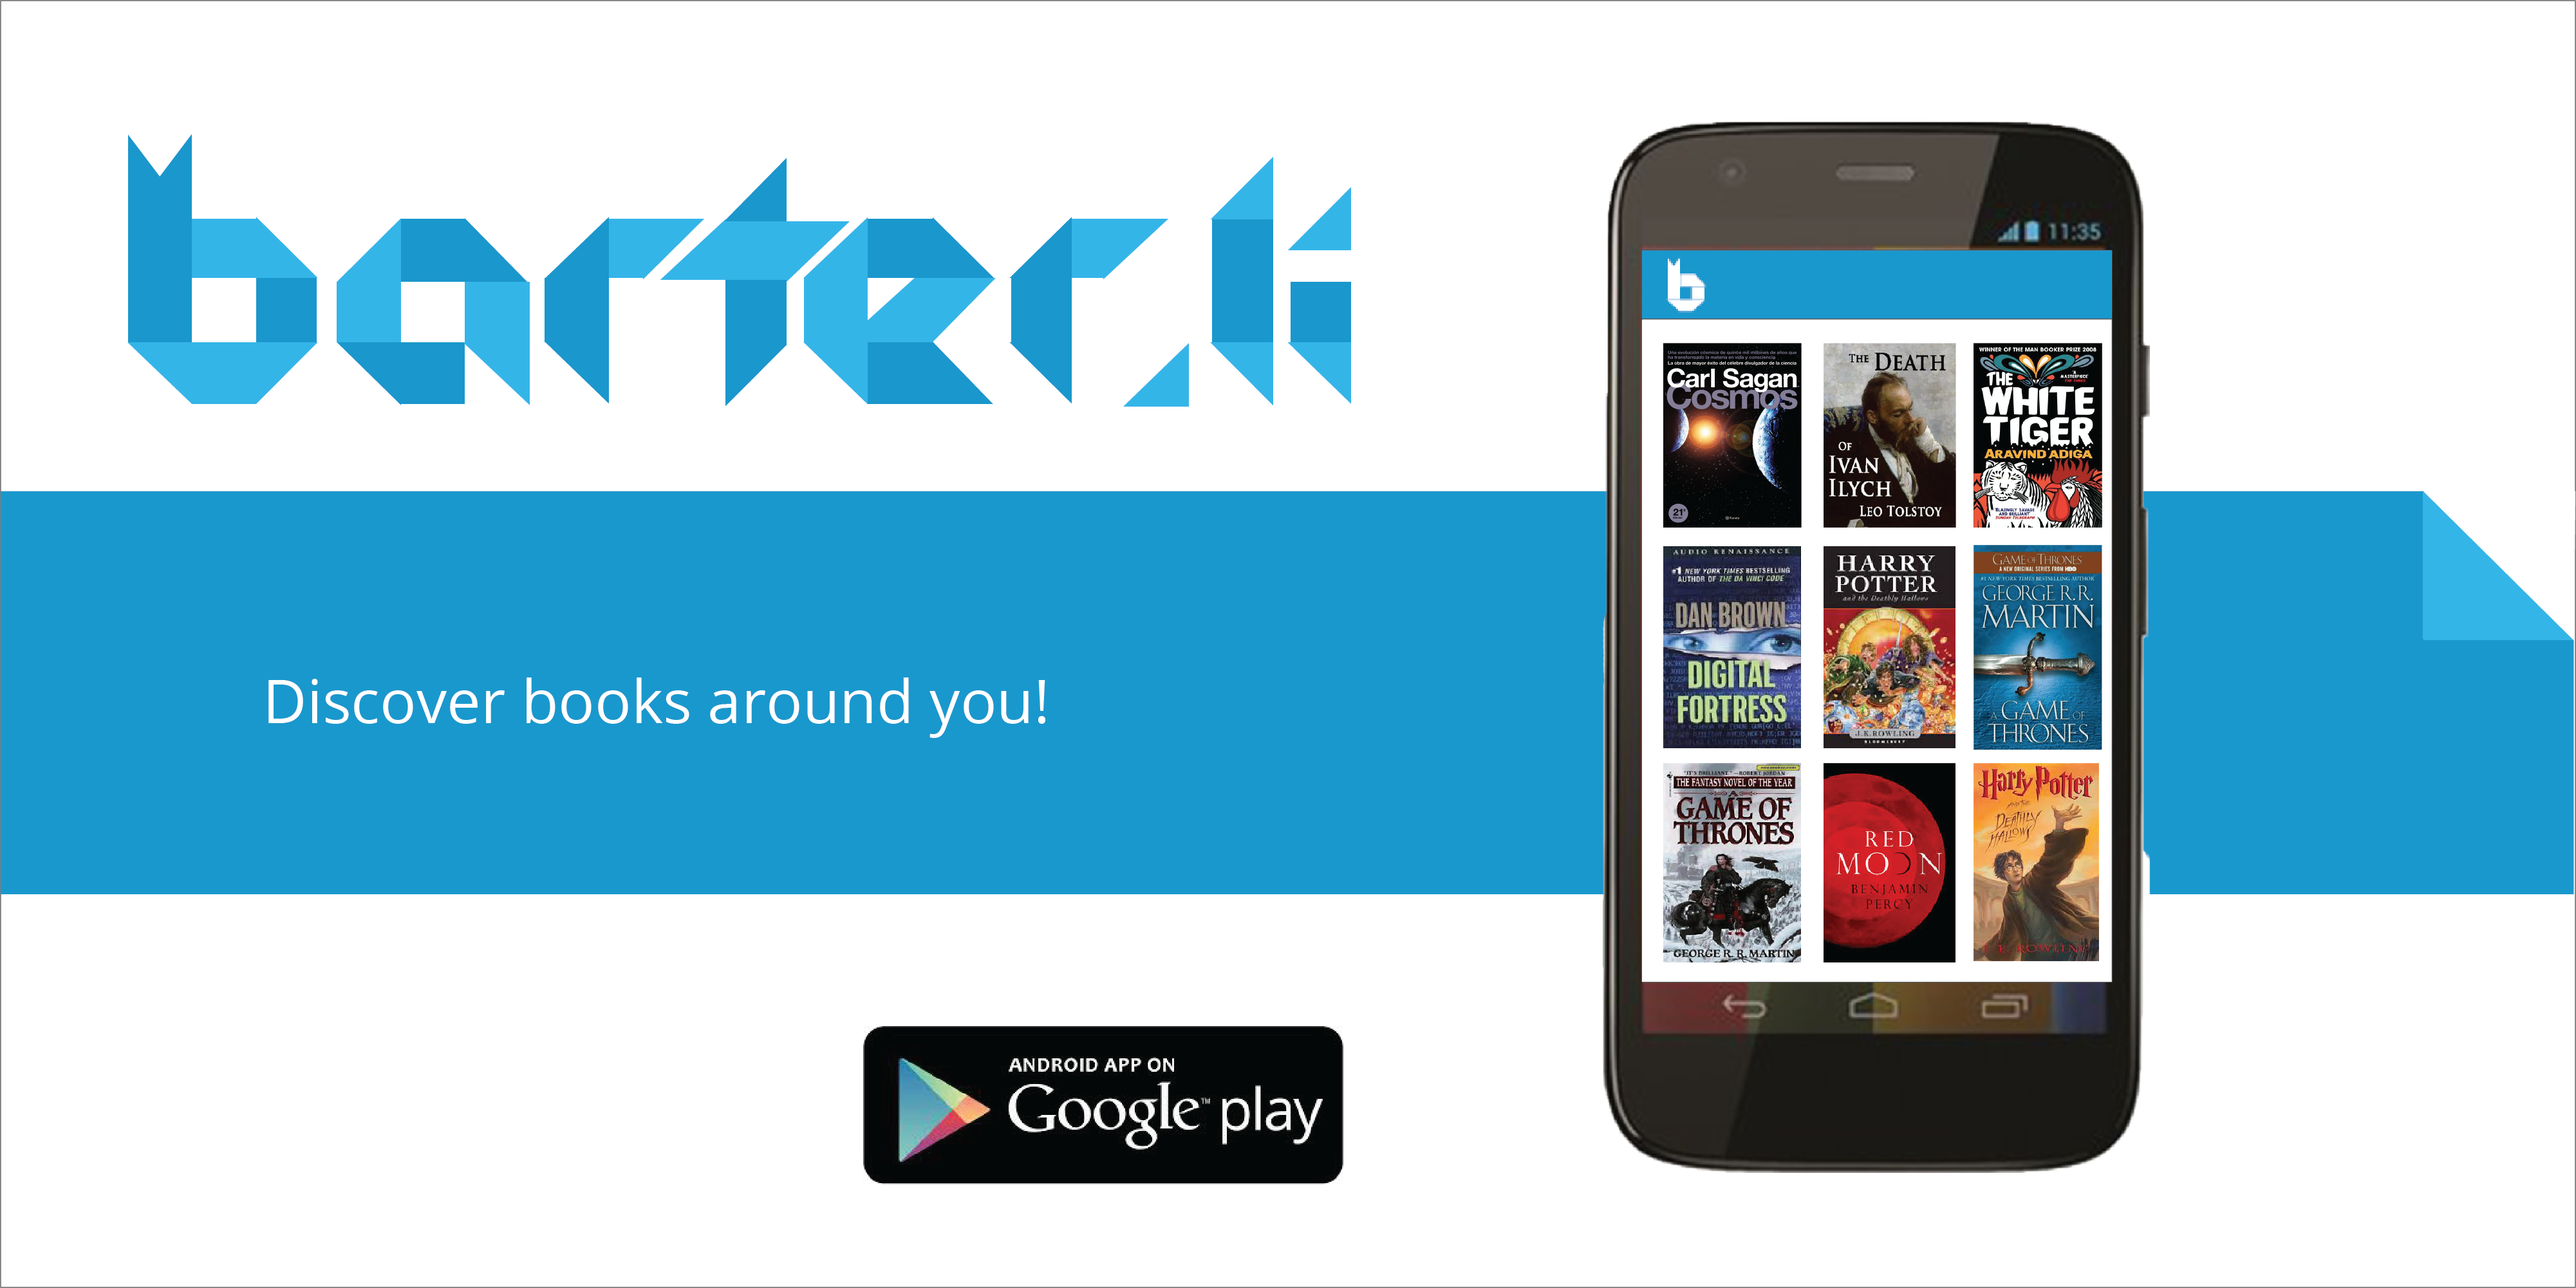
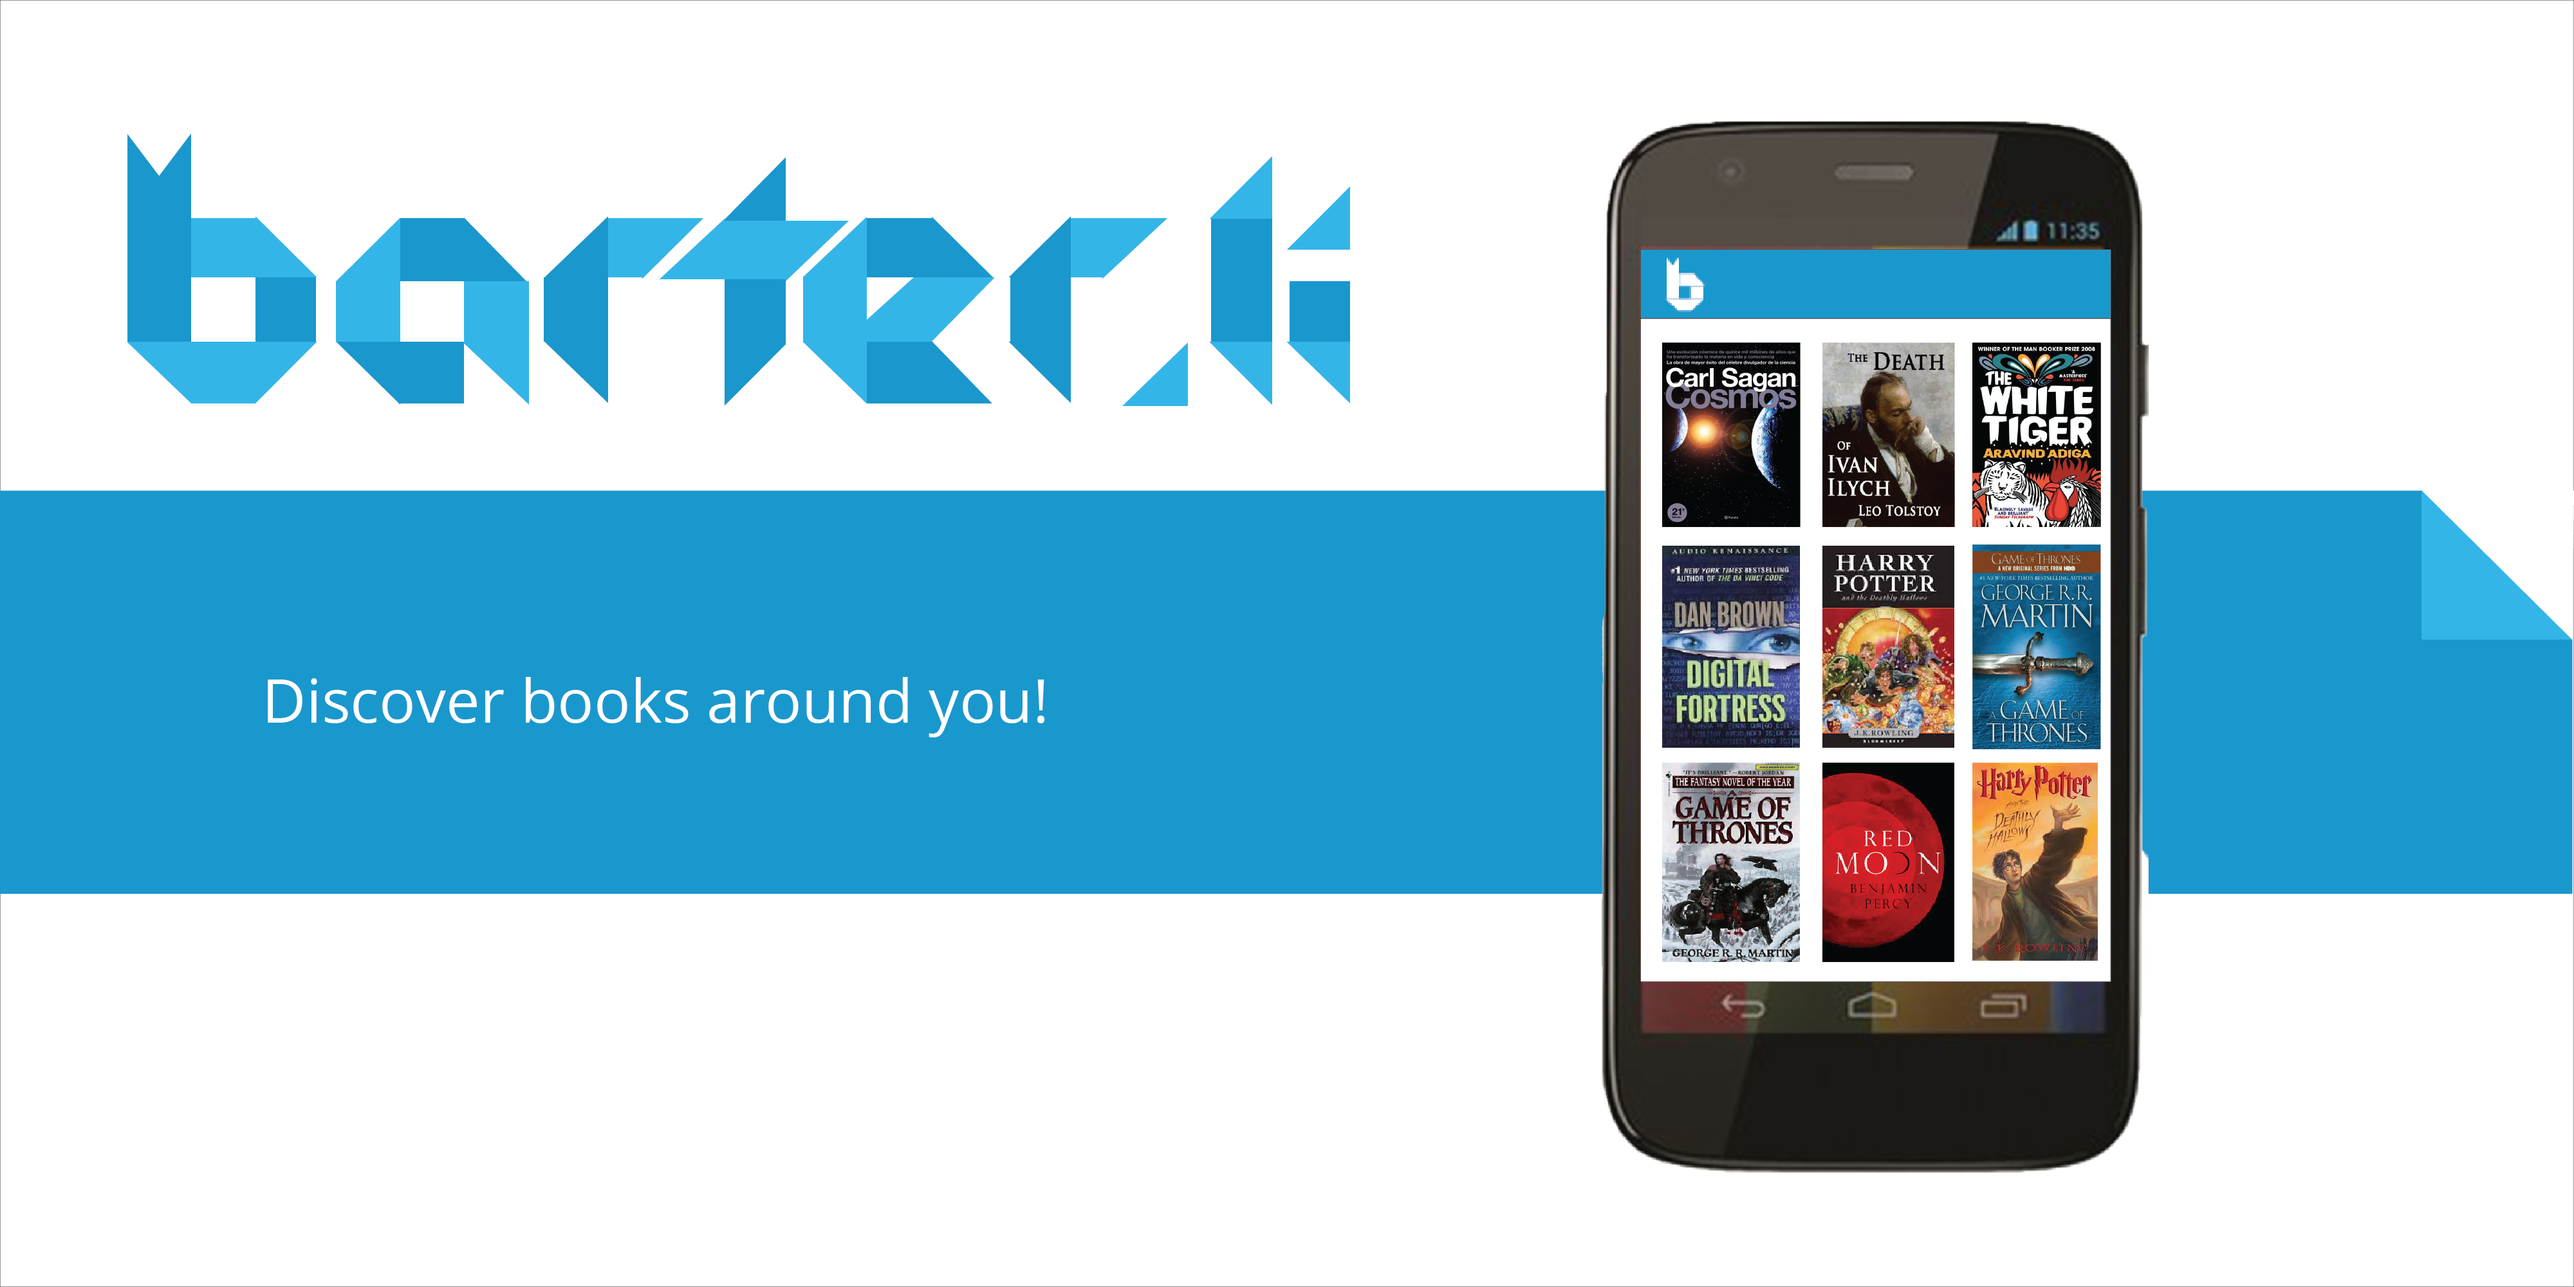
added google play button

diff --git a/index.html b/index.html
@@ -42,15 +42,11 @@
 
     <!-- Full Page Image Header Area -->
     <div id="top" class="header">
-        <!-- <div class="vert-text"> -->
-        <!-- <div><img src="./img/down.png" class="down" /></div> -->
-            <!-- <p><img src="./img/logo.png" class="logo"/></p>
-            <h3>
-                Discover Books And People Around You!<br /><br />
-                </h3><br />
-            <a href="https://play.google.com/store/apps/details?id=li.barter"><img src="./img/google.jpg"></a> -->
-<!--         </div>
- -->    </div>
+        <!-- <div class="vert-text">  -->
+            <div class="google"><a href="https://play.google.com/store/apps/details?id=li.barter"><img src="./img/google.jpg"></a></div>
+<!--        </div>
+ -->     </div>
+
     <!-- /Full Page Image Header Area -->
 
     <!-- Intro -->

diff --git a/css/stylish-portfolio.css b/css/stylish-portfolio.css
@@ -11,6 +11,12 @@ body {
   width: 40%;
 }
 
+.google {
+  position: absolute;
+  left: 45%;
+  top: 75%;
+}
+
 .down {
   width: 100px;
   height: 100px;
